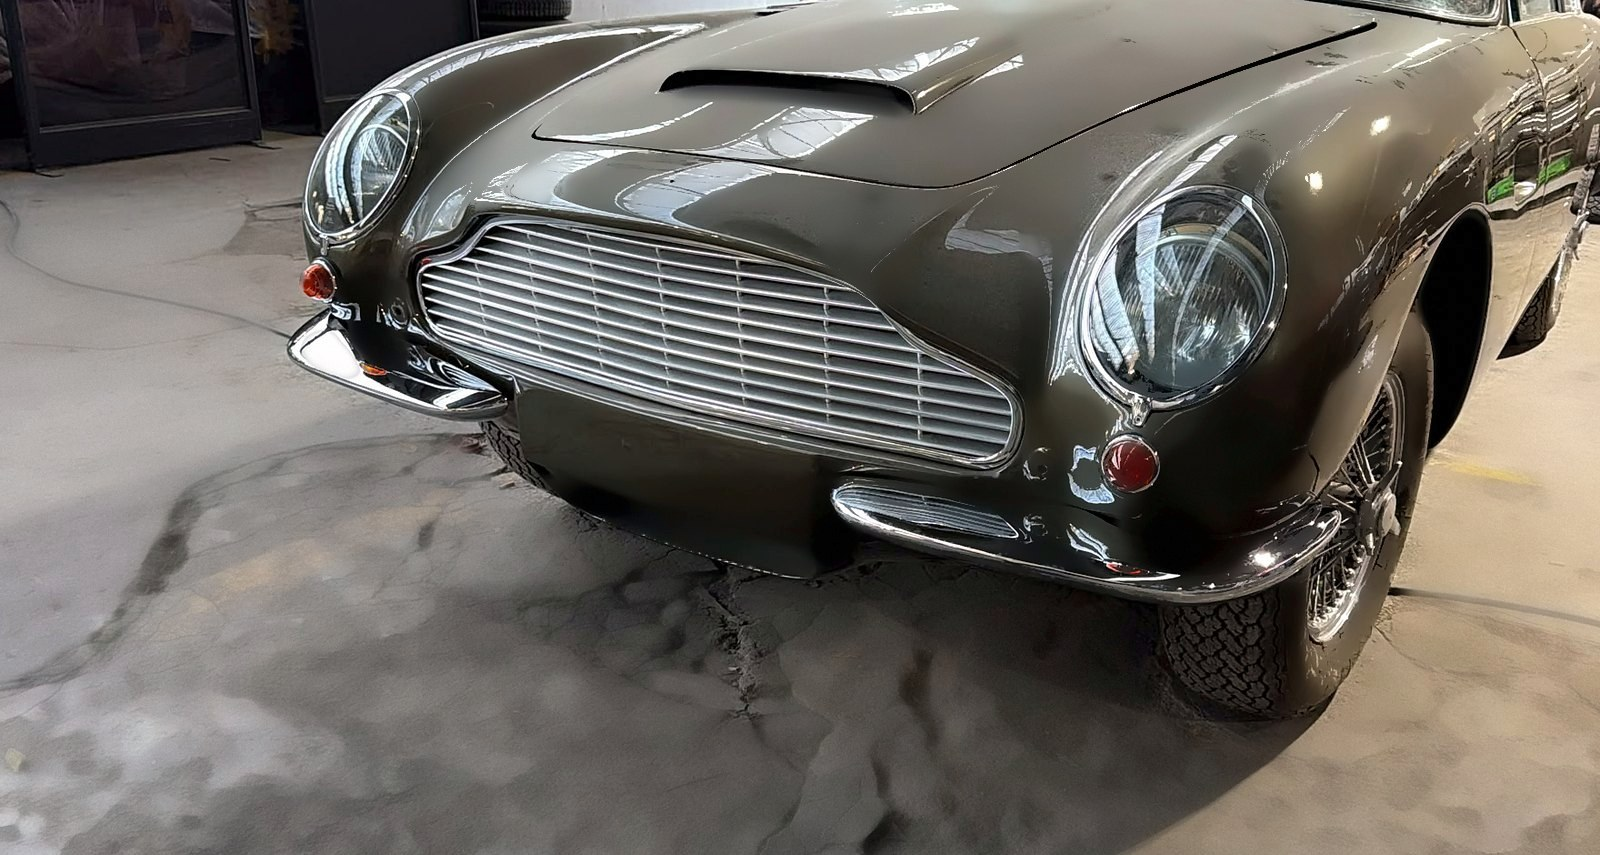
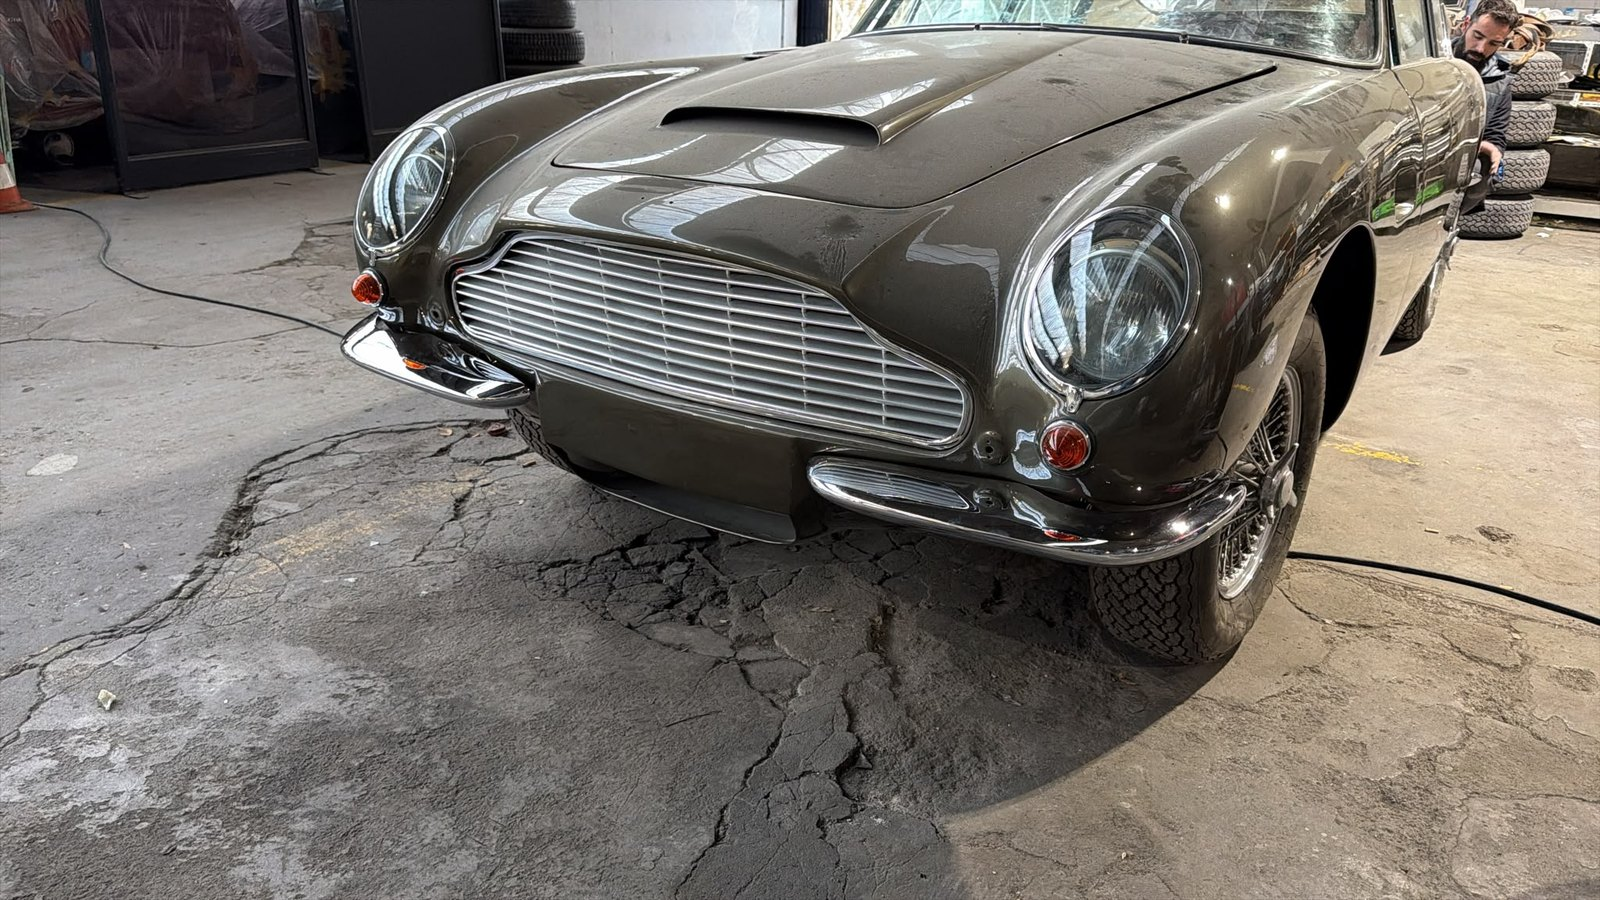
Fiches : la galerie commence par les vraies photos (vignette réservée à l'accueil) ; DB6 : photos d'origine sans retouche ; page « Qui sommes-nous » (#qui-sommes-nous, 4 langues) créée mais absente du menu
Claude-Session: https://claude.ai/code/session_015zE2JGpHVc776c231JsqW2

diff --git a/index.html b/index.html
@@ -195,6 +195,8 @@ html,body{overflow-x:clip}
 @media (max-width:640px){.wa{right:16px;bottom:16px;width:50px;height:50px}}
 .lien-wa{border-bottom:1px solid var(--rouge)}
 .lien-ml{border-bottom:1px solid var(--trait)}.lien-ml:hover{color:var(--ivoire)}
+.qui{max-width:1000px;padding:150px 0 130px}.qui h1{font-size:clamp(44px,6vw,72px);margin:28px 0 30px}.qui .intro{color:#cfc6b0;font-size:17px;max-width:720px;margin:0 0 60px}.qui .associes{display:grid;grid-template-columns:1fr 1fr;gap:56px}.qui figure{margin:0}.qui figure .ph{width:100%;aspect-ratio:4/5;background:#0c1d16;border:1px solid var(--trait)}.qui figure img{width:100%;aspect-ratio:4/5;object-fit:cover;display:block;background:#0c1d16}.qui h2{font-family:var(--serif);font-size:30px;font-weight:500;margin:24px 0 4px;color:var(--ivoire)}.qui .role{font-family:var(--sans);font-size:11px;letter-spacing:.28em;text-transform:uppercase;color:var(--rouge2);margin:0 0 16px}.qui p.bio{color:#cfc6b0;font-size:15.5px;margin:0 0 10px}
+@media (max-width:760px){.qui .associes{grid-template-columns:1fr;gap:48px}}
 .mentions{max-width:820px;padding:150px 0 130px}.mentions h1{font-size:clamp(44px,6vw,72px);margin:28px 0 50px}.mentions h2{font-family:var(--sans);font-size:11px;font-weight:500;letter-spacing:.32em;text-transform:uppercase;color:var(--rouge2);margin:44px 0 14px}.mentions p{color:#cfc6b0;font-size:15.5px;margin:0 0 12px}.mentions a{border-bottom:1px solid var(--rouge)}
 .retour-msg a{color:var(--ivoire);border-bottom:1px solid var(--rouge)}
 footer{border-top:1px solid var(--trait);padding:40px 0;color:var(--gris2);font-size:12px;letter-spacing:.06em}
@@ -4478,16 +4480,16 @@ footer{border-top:1px solid rgba(168,123,79,.3)!important}
       ],
       "vignette": "img/db6-vignette-c.jpg",
       "photos": [
-        "img/db6-1.jpg",
-        "img/db6-2.jpg",
-        "img/db6-3.jpg",
-        "img/db6-4.jpg",
-        "img/db6-5.jpg",
-        "img/db6-6.jpg",
-        "img/db6-7.jpg",
-        "img/db6-8.jpg",
-        "img/db6-9.jpg",
-        "img/db6-10.jpg"
+        "img/db6-1.jpg?v=o",
+        "img/db6-2.jpg?v=o",
+        "img/db6-3.jpg?v=o",
+        "img/db6-4.jpg?v=o",
+        "img/db6-5.jpg?v=o",
+        "img/db6-6.jpg?v=o",
+        "img/db6-7.jpg?v=o",
+        "img/db6-8.jpg?v=o",
+        "img/db6-9.jpg?v=o",
+        "img/db6-10.jpg?v=o"
       ],
       "videos": [],
       "atelier": [
@@ -5849,7 +5851,31 @@ footer{border-top:1px solid rgba(168,123,79,.3)!important}
   "copie": "Lien copié",
   "wa.ecrire": "Écrire sur WhatsApp",
   "wa.msg": "Bonjour, je vous contacte depuis le site MCC Motors.",
-  "wa.int": "Je suis intéressé par :"
+  "wa.int": "Je suis intéressé par :",
+  "nav.qui": "Qui sommes-nous",
+  "qui": {
+   "titre": "Qui sommes-nous",
+   "intro": "MCC Motors, ce sont deux associés réunis par les automobiles anglaises de collection. Nous achetons, préparons et vendons des autos que nous connaissons de près, dans notre atelier des Yvelines.",
+   "personnes": [
+    {
+     "nom": "Christophe Da Costa",
+     "role": "Associé · Président",
+     "bio": [
+      "Christophe a fondé MCC Motors avec Martin en 2024. Il veille à la bonne marche de la maison et accompagne chaque client, de la première visite jusqu'à la remise des clés."
+     ],
+     "photo": ""
+    },
+    {
+     "nom": "Martin Ducros",
+     "role": "Associé",
+     "bio": [
+      "Spécialiste de la Jaguar Type-E depuis dix-neuf ans, Martin connaît aussi de près les Triumph TR et les Land Rover.",
+      "Il recherche les autos partout en Europe, établit leur diagnostic et s'occupe des démarches d'immatriculation en collection."
+     ],
+     "photo": ""
+    }
+   ]
+  }
  },
  "en": {
   "nav.veh": "Cars",
@@ -5993,7 +6019,31 @@ footer{border-top:1px solid rgba(168,123,79,.3)!important}
   "copie": "Link copied",
   "wa.ecrire": "Message us on WhatsApp",
   "wa.msg": "Hello, I am contacting you from the MCC Motors website.",
-  "wa.int": "I am interested in:"
+  "wa.int": "I am interested in:",
+  "nav.qui": "About us",
+  "qui": {
+   "titre": "About us",
+   "intro": "MCC Motors is two partners brought together by classic British cars. We buy, prepare and sell cars we know inside out, in our workshop west of Paris.",
+   "personnes": [
+    {
+     "nom": "Christophe Da Costa",
+     "role": "Partner · Chairman",
+     "bio": [
+      "Christophe founded MCC Motors with Martin in 2024. He runs the house and looks after every client, from the first visit to the handing over of the keys."
+     ],
+     "photo": ""
+    },
+    {
+     "nom": "Martin Ducros",
+     "role": "Partner",
+     "bio": [
+      "A Jaguar E-Type specialist for nineteen years, Martin also knows Triumph TRs and Land Rovers closely.",
+      "He sources cars throughout Europe, carries out their diagnosis and handles historic-vehicle registration."
+     ],
+     "photo": ""
+    }
+   ]
+  }
  },
  "de": {
   "nav.veh": "Fahrzeuge",
@@ -6137,7 +6187,31 @@ footer{border-top:1px solid rgba(168,123,79,.3)!important}
   "copie": "Link kopiert",
   "wa.ecrire": "Auf WhatsApp schreiben",
   "wa.msg": "Guten Tag, ich kontaktiere Sie über die Website von MCC Motors.",
-  "wa.int": "Ich interessiere mich für:"
+  "wa.int": "Ich interessiere mich für:",
+  "nav.qui": "Über uns",
+  "qui": {
+   "titre": "Über uns",
+   "intro": "MCC Motors – das sind zwei Partner, die die Leidenschaft für britische Klassiker verbindet. Wir kaufen, bereiten auf und verkaufen Fahrzeuge, die wir genau kennen, in unserer Werkstatt westlich von Paris.",
+   "personnes": [
+    {
+     "nom": "Christophe Da Costa",
+     "role": "Partner · Präsident",
+     "bio": [
+      "Christophe hat MCC Motors 2024 zusammen mit Martin gegründet. Er sorgt für den reibungslosen Ablauf und begleitet jeden Kunden vom ersten Besuch bis zur Schlüsselübergabe."
+     ],
+     "photo": ""
+    },
+    {
+     "nom": "Martin Ducros",
+     "role": "Partner",
+     "bio": [
+      "Seit neunzehn Jahren auf den Jaguar E-Type spezialisiert, kennt Martin auch die Triumph TR und die Land Rover bestens.",
+      "Er sucht die Fahrzeuge in ganz Europa, übernimmt ihre Diagnose und kümmert sich um die Oldtimer-Zulassung."
+     ],
+     "photo": ""
+    }
+   ]
+  }
  },
  "pt": {
   "nav.veh": "Veículos",
@@ -6281,7 +6355,31 @@ footer{border-top:1px solid rgba(168,123,79,.3)!important}
   "copie": "Ligação copiada",
   "wa.ecrire": "Escrever no WhatsApp",
   "wa.msg": "Olá, contacto-vos a partir do site da MCC Motors.",
-  "wa.int": "Tenho interesse em:"
+  "wa.int": "Tenho interesse em:",
+  "nav.qui": "Quem somos",
+  "qui": {
+   "titre": "Quem somos",
+   "intro": "A MCC Motors são dois sócios unidos pelos clássicos ingleses. Compramos, preparamos e vendemos automóveis que conhecemos de perto, na nossa oficina a oeste de Paris.",
+   "personnes": [
+    {
+     "nom": "Christophe Da Costa",
+     "role": "Sócio · Presidente",
+     "bio": [
+      "Christophe fundou a MCC Motors com Martin em 2024. Zela pelo bom funcionamento da casa e acompanha cada cliente, da primeira visita à entrega das chaves."
+     ],
+     "photo": ""
+    },
+    {
+     "nom": "Martin Ducros",
+     "role": "Sócio",
+     "bio": [
+      "Especialista no Jaguar E-Type há dezanove anos, Martin conhece também de perto os Triumph TR e os Land Rover.",
+      "Procura os automóveis por toda a Europa, faz o seu diagnóstico e trata da matrícula de clássicos."
+     ],
+     "photo": ""
+    }
+   ]
+  }
  }
 }
 </script>
@@ -6529,7 +6627,7 @@ footer{border-top:1px solid rgba(168,123,79,.3)!important}
   var ETAT = function(s){return t('e.'+s);};
   function esc(s){return String(s==null?'':s).replace(/[&<>"]/g,function(c){return {'&':'&amp;','<':'&lt;','>':'&gt;','"':'&quot;'}[c];});}
   function photo1(v){return v.vignette||(v.photos&&v.photos[0])||GEN;}
-  function galerie(v){var g=[]; if(v.vignette && v.vignette_fiche!==false) g.push(v.vignette); (v.photos||[]).forEach(function(p){g.push(p);}); return g;}
+  function galerie(v){var g=[]; if(v.vignette && v.vignette_fiche!==false && !(v.photos&&v.photos.length)) g.push(v.vignette); (v.photos||[]).forEach(function(p){g.push(p);}); return g;}
   var SECTION={vehicules:{pref:'vehicule',grille:'grilleVehicules',retour:'ret.veh',travaux:'tr.veh'},projets:{pref:'projet',grille:'grilleProjets',retour:'ret.proj',travaux:'tr.proj'}};
   function prix(p){ return (!p||p==='Nous consulter')?t('consulter'):(p==='Sur demande'?t('surdemande'):p); }
   function prixTxt(v){return v.statut==='vendu'?ETAT('vendu'):prix(v.prix);}
@@ -6663,6 +6761,7 @@ footer{border-top:1px solid rgba(168,123,79,.3)!important}
       document.getElementById('message').value = (v.statut==='vendu'?t('msg.rech'):t('msg.int'))+v.marque+' '+modele(v)+(v.annee?' ('+v.annee+')':'')+'.\n';
     };
   }
+  function rendreQui(){ var Q=t('qui'); document.getElementById('fiche').innerHTML='<div class="qui"><a class="ret" href="#accueil">'+t('retour')+'</a><h1>'+Q.titre+'</h1><p class="intro">'+Q.intro+'</p><div class="associes">'+Q.personnes.map(function(x){return '<div><figure>'+(x.photo?'<img src="'+x.photo+'" alt="'+x.nom+'">':'<div class="ph"></div>')+'</figure><h2>'+x.nom+'</h2><p class="role">'+x.role+'</p>'+x.bio.map(function(b){return '<p class="bio">'+b+'</p>';}).join('')+'</div>';}).join('')+'</div></div>'; }
   function rendreMentions(){ document.getElementById('fiche').innerHTML='<div class="mentions"><a class="ret" href="#accueil">'+t('retour')+'</a>'+t('mentions')+'</div>'; }
   document.addEventListener('keydown',function(e){
     if(document.body.classList.contains('lb-on')) return;
@@ -6677,6 +6776,7 @@ footer{border-top:1px solid rgba(168,123,79,.3)!important}
     var f = trouver(h);
     if(f){ document.body.classList.add('fiche'); rendreFiche(f); window.scrollTo(0,0); entete(); majWa(); majTel(); return; }
     if(h==='mentions'){ courante=null; document.body.classList.add('fiche'); rendreMentions(); window.scrollTo(0,0); entete(); return; }
+    if(h==='qui-sommes-nous'){ courante=null; document.body.classList.add('fiche'); rendreQui(); window.scrollTo(0,0); entete(); majWa(); majTel(); return; }
     var etaitFiche = document.body.classList.contains('fiche');
     document.body.classList.remove('fiche');
     var cible = h && document.getElementById(h);
@@ -6698,6 +6798,7 @@ footer{border-top:1px solid rgba(168,123,79,.3)!important}
     traduirePage(); rendreListes(); majWa(); majTel();
     if(courante && document.body.classList.contains('fiche')) rendreFiche(courante,true);
     else if(location.hash==='#mentions') rendreMentions();
+    else if(location.hash==='#qui-sommes-nous') rendreQui();
     if(window.__observer) window.__observer();
     document.querySelectorAll('.carte,.piece').forEach(function(e){e.classList.add('vu');});
   }
